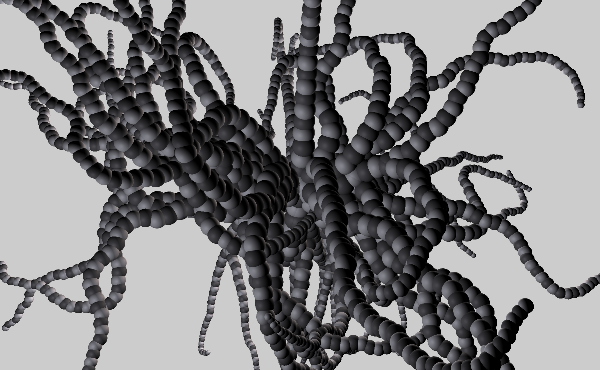
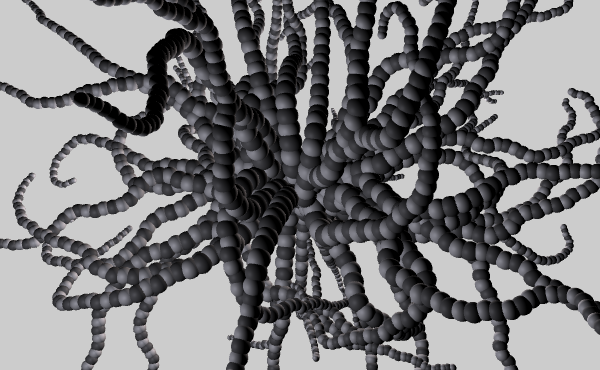
update documentation (learning), larger screenshots

diff --git a/website/templates/home.html b/website/templates/home.html
@@ -14,12 +14,12 @@
         </ol>
         <!-- Carousel items -->
         <div class="carousel-inner">
-            <div class="active item"><img src="screenshots/Spirally.png" class="img-rounded"
-                                          style="width:100%;height:100%;"/></div>
-            <div class="item"><img src="screenshots/Spikey.png" class="img-rounded"
-                                   style="width:100%;height:100%;"/></div>
-            <div class="item"><img src="screenshots/TextWorld.png" class="img-rounded"
-                                   style="width:100%;height:100%;"/></div>
+            <div class="active item"><a href="g_Spirally.html"><img src="screenshots/Spirally.png" class="img-rounded"
+                                          style="width:100%;height:100%;"/></a></div>
+            <div class="item"><a href="g_Spikey.html"><img src="screenshots/Spikey.png" class="img-rounded"
+                                   style="width:100%;height:100%;"/></a></div>
+            <div class="item"><a href="g_TextWorld.html"><img src="screenshots/TextWorld.png" class="img-rounded"
+                                   style="width:100%;height:100%;"/></a></div>
         </div>
         <!-- Carousel nav -->
         <a class="carousel-control left" href="#myCarousel" data-slide="prev">&lsaquo;</a>

diff --git a/examples/js/Spikey.js b/examples/js/Spikey.js
@@ -9,19 +9,23 @@ source = function (grow3) {
     with (grow3) {
         background(0x443333);
 
-        var mat1 = new THREE.MeshPhongMaterial({color: 0xbbbbbb});
-        var mat2 = new THREE.MeshPhongMaterial({color: 0xddbbbb});
+        var materials = [new THREE.MeshPhongMaterial({color: 0xbbbbbb}),
+            new THREE.MeshPhongMaterial({color: 0xddbbbb})];
 
         maxDepth(100);
 
-        grow3.spiral = rule(function () {
-            cube(material(mat1).scale(1.2));
-            spiral(pitch(-10).roll(13).move(0.6).scale(0.98));
-        });
+        rules({
+            spiral: function () {
+                cube(material(materials).scale(1.2));
+                spiral(pitch(10).roll(13).move(0.6).scale(0.98));
+            },
 
-        grow3.start = rule(function () {
-            for (var i = 0; i < 720; i += 15) {
-                spiral(scale(0.9).yaw(i / 3).pitch(i));
+            start: function () {
+                camera(move(30).yaw(90));
+
+                for (var i = 0; i < 720; i += 15) {
+                    spiral(scale(0.9).yaw(i / 3).pitch(i));
+                }
             }
         });
     }

diff --git a/website/templates/base.html b/website/templates/base.html
@@ -1,7 +1,7 @@
 <!DOCTYPE html>
 <html>
 <head>
-    <title>{% if title is defined %} {{ title }} &ndash; {% endif %}Grow3.js</title>
+    <title>{% if title is defined %} {{ title }} &ndash; {% endif %}grow3.js</title>
     <meta name="viewport" content="width=device-width, initial-scale=1.0">
     <link href="../assets/css/bootstrap.min.css" rel="stylesheet" media="screen">
     {% block head %}{% endblock %}
@@ -11,7 +11,7 @@
 <div class="container">
     <div class="navbar">
         <div class="navbar-inner">
-            <a class="brand" href="index.html">Grow3.js</a>
+            <a class="brand" href="index.html">grow3.js</a>
             <ul class="nav">{% for nentry in nentries %}<li{% if nactive is sameas loop.index0 %} class="active"{% endif %}><a href="{{nentry.url}}">{{nentry.name}}</a></li>{% endfor %}</ul>
         </div>
     </div>

diff --git a/website/assets/css/desert.css b/website/assets/css/desert.css
@@ -14,10 +14,8 @@ pre .atv { color: #ffa0a0 } /* attribute value - pink */
 pre .dec { color: #98fb98 } /* decimal         - lightgreen */
 
 /* Specify class=linenums on a pre to get line numbering */
-ol.linenums { margin-top: 0; margin-bottom: 0; color: #AEAEAE } /* IE indents via margin-left */
-li.L0,li.L1,li.L2,li.L3,li.L5,li.L6,li.L7,li.L8 { list-style-type: none }
-/* Alternate shading for lines */
-li.L1,li.L3,li.L5,li.L7,li.L9 { }
+ol.linenums { margin-top: 0; margin-bottom: 0; color: #AEAEAE; font-size:75%  } /* IE indents via margin-left */
+li.L0,li.L1,li.L2,li.L3,li.L4,li.L5,li.L6,li.L7,li.L8,li.L9 { background: #555; list-style-type: decimal }
 
 @media print {
   pre.prettyprint { background-color: none }

diff --git a/examples/html/Spikey.html b/examples/html/Spikey.html
@@ -29,13 +29,13 @@ source = function (grow3) {
     with (grow3) {
         background(0x443333);
 
-        var mat1 = new THREE.MeshPhongMaterial({color: 0xbbbbbb});
-        var mat2 = new THREE.MeshPhongMaterial({color: 0xddbbbb});
+        var materials = [new THREE.MeshPhongMaterial({color: 0xbbbbbb}),
+                    new THREE.MeshPhongMaterial({color: 0xddbbbb})];
 
         maxDepth(100);
 
         grow3.spiral = rule(function () {
-            cube(material(mat1).scale(1.2));
+            cube(material(materials).scale(1.2));
             spiral(pitch(-10).roll(13).move(0.6).scale(0.98));
         });
 

diff --git a/website/templates/gallery.html b/website/templates/gallery.html
@@ -4,7 +4,7 @@
 <h2>Gallery</h2>
 <div><strong>Please note: </strong> All gallery entries are best viewed using a WebGL enabled browser, preferably Chrome, Chromium or Firefox.
 To test your browser and graphics card visit <a href="http://get.webgl.org/">this website</a>.<br><br></div>
-   <div>You can use the following controls:
+   <div>You can use the following <strong>controls</strong>:
         <ul>
             <li>Left-click and drag mouse to <em>rotate</em> object.</li>
             <li>Right-click and drag mouse to <em>move</em> object.</li>

diff --git a/src/grow3.js b/src/grow3.js
@@ -35,7 +35,7 @@ grow3.System = (function() {
     var cubeGeometry = new THREE.CubeGeometry(1, 1, 1);
     var sphereGeometry = new THREE.SphereGeometry(0.5, 32, 16);
 
-    var system = function(scene, script /* optional */, camera /* optional */) {
+    var system = function(scene, camera /* optional */, script /* optional */) {
         this.scene = scene;
         this.script = script;
 
@@ -149,6 +149,7 @@ grow3.System = (function() {
 
         } while (this.backlogBuild.length > 0);
 
+        return rootNode;
     };
 
 

diff --git a/website/templates/learn.html b/website/templates/learn.html
@@ -5,15 +5,6 @@
 {% endblock %}
 
 
-{% block content %}
-<div class="container">
-<ul class="nav nav-list span2">
-  <li class="active"><a href="#">Home</a></li>
-  <li><a href="#">Library</a></li>
-</ul>
-<div class="span7">{{ content }}</div>
-</div>
-{% endblock %}
 
 {% block foot %}<script type="text/javascript" src="js/prettify.js"></script>
 <script type="text/javascript">

diff --git a/src/grow3.Runner.js b/src/grow3.Runner.js
@@ -58,7 +58,7 @@ grow3.Runner = (function() {
 
 
         // GROW3
-        this.g = new grow3.System(this.scene, script, this.camera);
+        this.g = new grow3.System(this.scene, this.camera, script);
         this.g.build();
 
         if(!this.g.hasLighting) {

diff --git a/website/GenSite.py b/website/GenSite.py
@@ -17,7 +17,7 @@ def render_template(tname, ctx):
 
 def write_html(oname, outstr):
     with open("out/" + oname, "wb") as fh:
-        fh.write(outstr)
+        fh.write(outstr.encode('utf8'))
 
 
 def render_template_to_out(tname, oname, ctx):
@@ -89,7 +89,8 @@ content = md_to_html('learn.md')
 outstr = render_template('learn.html',
                          {'content': content, 'nentries': navbarEntries, 'nactive': 2, 'title': 'Learn'})
 
-outstr = outstr.replace('<pre>', '<pre class="prettyprint lang-js">')
+outstr = outstr.replace('<pre><code>:::js:::', '<pre class="prettyprint linenums lang-js"><code>')
+outstr = outstr.replace('<pre><code>:::html:::', '<pre class="prettyprint linenums lang-html"><code>')
 write_html('learn.html', outstr)
 
 ende = time.time()

diff --git a/utils/GenerateExamples.py b/utils/GenerateExamples.py
@@ -70,8 +70,8 @@ if (RENDER_SCREENSHOTS):
     # On OS X antialiasing currently is disabled in WebGL
     # -> fake antialias by rendering to 4* Canvas and bicubic resampling
     aaFactor = 1;
-    if sys.platform.startswith('darwin'):
-        aaFactor = 4;
+#    if sys.platform.startswith('darwin'):
+#        aaFactor = 4;
 
     for file in os.listdir(examplesDir):
         if file.endswith(".js"):

diff --git a/website/learn.md b/website/learn.md
@@ -1,10 +1,8 @@
-## Getting Started {: #GettingStarted}
+## Hello grow3.js!
 
-### Hello grow3.js!
+A minimal code example for a simple silvery cube:
 
-Minimal code example for a simple silvery cube:
-
-    <script>
+    :::js:::<script>
         var g3 = function(g) {
             with(g) {
                 rules({
@@ -19,38 +17,45 @@ Minimal code example for a simple silvery cube:
         };
     </script>
 
-### A more interesting script...
+The easiest way to build and view structures with grow3.js ist using `grow3.Runner` *(lines 11-12)*: After creating the
+runner, evaluation of a script ist started by calling `run()`.
 
-A more elaborate example:
+The runner is provided with a script, which is an ordinary JavaScript-function *(lines 2-8)*. Its main task is to
+define a set of recursive rules that describe how to construct the object *(lines 4-6)*. In this case there is only
+the `start` rule that is the starting point of the evaluation. It calls one built-in rule (`cube()`) and that's all.
 
 
-
-### Basics of a Grow3 Script
+## Basics
 
 #### Rules and Modifiers
 
-Every Grow3 script consists of a set of **rules** that can be called as functions from other rules. There are a few buitin rule
-(such as `cube()` in the example above) that are the basic building blocks for every structure. Every rule has a name and
-an implementation which mostly consists of rule calls (and modifiers - see below) but is just plain JavaScript.
+Every Grow3 script consists of a set of **rules** that can be called as functions from other rules. There are a few buitin rules (such as `cube()` in the example above) that are the basic building blocks for every structure. Every rule has a name and an implementation which mostly consists of rule calls (and modifiers - see below) but is just plain JavaScript.
 
-Every rule is influenced by grow3's **state** when it is run. The state includes the local coordinate system (rotation and scaling),
-materials to apply and other data that influences the outcome of a rule based on the time it's run.
+Every rule is influenced by grow3's **state** when it is run. The state includes the local coordinate system (rotation and scaling), materials to apply and other data that influences the outcome of a rule based on the time it's run.
 
-
-The state for a rule can be manipulated using **modifiers**. Modifiers can be placed inside the rule call arguments for a rule or be
-called prior to calling a rule.
+The state for a rule can be manipulated using **modifiers**. Modifiers can be placed inside the rule call arguments fora rule or be called prior to calling a rule.
 
 #### Rule Evaluation
 
-Grow3 evaluates rules recursively. This means that often rules contain a call to themselves (or to another rule that calls
-the original rule again). Recursion is evaluated using a breadth first approach.
+Grow3 evaluates rules recursively. This means that often rules contain a call to themselves (or to another rule that calls the original rule again). Recursion is evaluated using a breadth first approach.
 
 The maximum recursion depth is limited to a call depth of 20. This value can be changed using the method `maxDepth(n)`.
 
 
 #### The Coordinate System
 
-In practice modifiers most commonly move, rotate and scale the local coordinate system.
+In practice modifiers most commonly move, rotate and scale the local coordinate system. Movements follow the
+[turtle graphics](https://en.wikipedia.org/wiki/Turtle_graphics) principle: Think of it as a little person moving and rotating
+in 3D, who is also able to magically change its size (grow and shrink). Every action (rule call) will have its effect
+based on it position and size.
+
+Modifiers can be...
+
+* chained: `move(<code> 10).yaw(5).move(10)`
+* called as an argument for a rule: `cube(move(10))`.
+* called prior to calling a rule: `move(10).cube()`.
+
+Basic modifiers for changing the local coordinate system:
 
 **Move:**
 
@@ -68,8 +73,129 @@ In practice modifiers most commonly move, rotate and scale the local coordinate 
 
 * `scale(factor)` or `s(factor)`: Scale by amount *factor*. Effectively this scales all following movements and meshes.
 
-### Embedding Grow3 in a page
+## A more interesting example!
 
+To create this...
+
+![Spikey Screenshot](screenshots/Spikey.png)
+
+...you will need the following code:
+
+    :::js:::<script>
+        var g3 = function(g) {
+            with(g) {
+              background(0x443333);
+
+              var materials = [
+                new THREE.MeshPhongMaterial({color: 0xbbbbbb}),
+                new THREE.MeshPhongMaterial({color: 0xddbbbb})];
+
+              maxDepth(100);
+
+              rules({
+                    spiral: function () {
+                        cube(material(materials).scale(1.2));
+                        spiral(pitch(10).roll(13).move(0.6).scale(0.98));
+                    },
+                    start: function () {
+                        camera(move(30).yaw(90));
+
+                        for (var i = 0; i < 720; i += 15) {
+                            spiral(scale(0.9).yaw(i / 3).pitch(i));
+                        }
+                    }
+                });
+            }
+        };
+
+        window.onload = function() {
+            var runner = new grow3.Runner(document.body);
+            runner.run(g3);
+        };
+    </script>
+
+The same basic structure as before, but there's much more happening (for details see the following reference sections):
+
+There are two rules (`start` and `spiral`). `spiral`
+gets called 720/15 = 48 times from within the loop in `start`, each call starting one "branch". The corkscrew-type
+branches are built from cubes by recursive calls to `spiral`, each with a changed and slightly scaled down local coordinate system
+*(line 15)*.
+
+The maximum recursion depth is set to 100 in the script with the helper function `maxDepth()` *(line 10)*. The default
+value is 20.
+
+The helper `background()` sets a background color *(line 4)*.
+
+The camera can be set as a special node in our scene using the camera rule *(line 18)*: The camera is placed at the
+current position defined by the modifiers and always facing towards the global coordinate systems origin (0,0,0).
+
+Finally, you can use the THREE.js material system, using the `material()` modifier *(line 14)*. It takes as its argument
+any material. If you supply it with an *array* of possible values insted, grow3.js automatically selects one based on the
+current recursion depth. Here this results in a subtle grey-red stripe effect.
+
+
+## Embedding grow3
+
+### ...in a web page
+
+To build a webpage containing a grow3-script import [`grow3.min.js`]{https://github.com/filgf/grow3.js/blob/master/build/grow3.min.js},
+the minified library. For debugging directly include `grow3.js` and `grow3.Runner.js` from the
+[source code]{https://github.com/filgf/grow3.js/tree/master/src}.
+
+grow3.js has a few dependencies (see [src/lib](https://github.com/filgf/grow3.js/tree/master/src/lib) or original sources):
+
+* Always: `three.js`
+* If you use grow3.Runner as your framework: `Detector.js`, `TrackballControls.js`, `THREEx.FullScreen.js`,
+ `THREEx.WindowResize.js`, `helvetiker_regular.typeface.js`
+
+
+A basic stub could look like this:
+
+    :::html:::<!doctype html>
+    <html lang="en">
+        <head>
+            <style>body { margin: 0; overflow: hidden; }</style>
+        </head>
+        <body>
+
+        <!-- Needed dependency -->
+        <script src="js/lib/three.js"></script>
+
+        <!-- Needed if you use grow3.Runner -->
+        <script src="js/lib/Detector.js"></script>
+        <script src="js/lib/TrackballControls.js"></script>
+        <script src="js/lib/THREEx.FullScreen.js"></script>
+        <script src="js/lib/THREEx.WindowResize.js"></script>
+        <script src="js/lib/helvetiker_regular.typeface.js"></script>
+
+        <!-- grow3 minified -->
+        <script src="js/grow3.min.js"></script>
+
+
+        <script>
+            // ^^^ Example code from above ^^^
+        </script>
+        </body>
+    </html>
+
+### ...as an object generator for THREE.js
+
+You can use grow3.js as an object generator for your own THREE.js application, without using grow3.Runner.js as a framework.
+
+The API is pretty straightforward:
+
+    :::js:::var g = new grow3.System(scene, camera /* optional */);
+
+    with(g) {
+        // your script here
+    }
+
+    var root = g.build();
+
+Giving a reference to the THREE.js scene is mandatory. Supplying a camera object in the constructor is optional. If given, it's possible to set the camera using the `camera()`
+rule.
+
+Calling `g.build()` triggers generating the structure and return a reference to its root node.
 
 
 ## Rules
